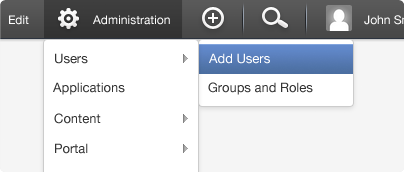
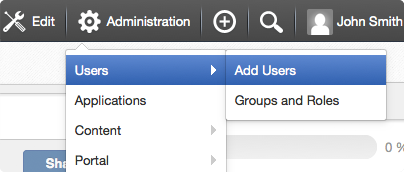
UI-3423  Incorrect UI with simple tab border

diff --git a/platform-ui-skin/src/main/webapp/skin/less/Core.less b/platform-ui-skin/src/main/webapp/skin/less/Core.less
@@ -50,6 +50,21 @@
 	.clearfix();	// Reuse Mixin .clearfix() from mixins.less of bootstrap
 }
 
+// Block level inputs
+.input-block-level{
+	.input-block-level();
+}
+
+/*============== Action With Label================*/
+.uiActionWithLabel {
+	.uiActionWithLabel();
+}
+
+/*============== actionIcon================*/
+.actionContainer{
+	.actionContainer();
+}
+
 a,a:hover,a:focus {
   color: @linkColor;
   text-decoration: none;
@@ -262,10 +277,11 @@ table {
 
 .actionIcon, .actionIconSmall{
 	.actionIcon();
-}
+} 
 
 .actionIconSmall {
-	padding: 0 2px;
+	padding: 0;
+  line-height: @baseLineHeight - 4;
 	[class^="uiIcon"] {
 		vertical-align: middle;
 	}

diff --git a/platform-ui-skin/src/main/webapp/skin/less/component/Buttons/Style.less b/platform-ui-skin/src/main/webapp/skin/less/component/Buttons/Style.less
@@ -3,7 +3,6 @@
 // --------------------------------------------------
 .btn {
 	padding: @paddingDefault;
-	min-width: 50px;
 	border-bottom-color: @btnBorder;
 }
 .btn-primary{
@@ -21,6 +20,7 @@
 	text-align: center;
 	.btn {
 		margin: 0 5px;
+		min-width: 50px;
 	}
 }
 
@@ -104,7 +104,8 @@ h1,h2,h3,h4 {
 
 // Mini
 .btn-mini {
-  .border-radius(@borderRadiusSmall - 1px);
+	padding: @paddingMini;
+	.border-radius(@borderRadiusSmall - 1px);
 }
 
 // Extra (padding-left = padding-right = 15px)

diff --git a/platform-ui-skin/src/main/webapp/skin/less/variables.less b/platform-ui-skin/src/main/webapp/skin/less/variables.less
@@ -81,10 +81,10 @@
 @btnPrimaryBackgroundHighlight:     @primaryColor;
 @btnPrimaryBorder: 					@primaryDarkColor;
 
-@paddingXLarge:         10px 15px;
-@paddingLarge:          3px 10px;
-@paddingDefault:		2px 10px;
-@paddingSmall:          1px 10px;
+@paddingXLarge:         9px 15px;
+@paddingLarge:          4px 10px;
+@paddingDefault:		3px 10px;
+@paddingSmall:          2px 10px;
 @paddingMini:           0 10px;
 
 // Forms

diff --git a/platform-ui-skin/src/main/webapp/skin/less/component/Tabs/Style.less b/platform-ui-skin/src/main/webapp/skin/less/component/Tabs/Style.less
@@ -281,3 +281,20 @@
 .uiFormTabPane {
     padding: 10px;
 }
+
+// Fix dot white for uiTabNormal
+.uiTabNormal {
+	.nav-tabs > li.active:first-child {
+		position: relative;
+	}
+	.nav-tabs > li.active:first-child:before {
+	    background-color: @borderColor;
+	    bottom: 0;
+	    content: "";
+	    display: block;
+	    height: 1px;
+	    left: 0;
+	    position: absolute;
+	    width: 1px;
+	}
+}

diff --git a/platform-ui-skin/src/main/webapp/skin/less/wiki/wiki.less b/platform-ui-skin/src/main/webapp/skin/less/wiki/wiki.less
@@ -378,7 +378,7 @@
 .uiWikiPortlet {
 	.uiSpaceSwitcher_BreadCrumb {
 		float: left;
-		margin-top: -3px;
+		margin-top: -4px;
 		position: relative;
 		z-index: 2;
 	}
@@ -411,7 +411,7 @@
 	.uiWikiMovePageForm, .uiWikiSelectPageForm{
 		.labelForm{
 			font-weight: bold;
-			padding: 2px 0px;
+			padding: 4px 0px;
 		}
 		.uiInputInfo{
 			font-weight: bold;

diff --git a/platform-ui-skin/src/main/webapp/skin/less/calendar/uiHeaderBar/Style.less b/platform-ui-skin/src/main/webapp/skin/less/calendar/uiHeaderBar/Style.less
@@ -2,7 +2,7 @@
 /*============== uiHeaderBar ================*/
 
 .uiHeaderBar{
-	height: 25px;
+	min-height: 27px;
 	table{
 		margin: auto;
 		width: auto;
@@ -17,9 +17,7 @@
 	    width: 216px;
 	    text-align: center;
 	}
-	.uiActionWithLabel {
-		margin-top: -2px;
-	}
+
 	.titleBar {
 		line-height: 24px;
 	}

diff --git a/platform-ui-skin/src/main/webapp/skin/less/calendar/calendar.less b/platform-ui-skin/src/main/webapp/skin/less/calendar/calendar.less
@@ -67,15 +67,10 @@
 
 .selectboxSmall  {
 	.uiSelectbox {
-		width: 100px;
-		background-position: right -2px, 0 0;
-		&:hover, &:focus {
-			background-position: right -28px, 0 0;
-		}
+
 		.selectbox {
 			width: 103px;
-			height: 24px;
-			padding: 3px 6px;
+			margin-bottom: 0;
 		}
 	}	
 } 

diff --git a/platform-ui-skin/src/main/webapp/skin/less/component/ButtonGroups/Style.less b/platform-ui-skin/src/main/webapp/skin/less/component/ButtonGroups/Style.less
@@ -7,7 +7,7 @@
 		display: inline-block;
 	    margin: 0 0 0 5px;
 	    vertical-align: middle;
-	    .size(22px, 2px);
+	    .size(18px, 2px);
 	}
 	> span {
 	 vertical-align: middle;

diff --git a/platform-ui-skin/src/main/webapp/skin/less/wiki/PopupRelated/Style.less b/platform-ui-skin/src/main/webapp/skin/less/wiki/PopupRelated/Style.less
@@ -1,5 +1,5 @@
 .popupContenRelated{
 	border: solid 1px @borderColor;
-	background: @grayLighter;
-	margin: 15px 0;
+	background: @componentBackgroundLight;
+	margin: 15px 0 0;
 }

diff --git a/platform-ui-skin/src/main/webapp/skin/less/component/Form/Style.less b/platform-ui-skin/src/main/webapp/skin/less/component/Form/Style.less
@@ -262,6 +262,7 @@ input[disabled], select[disabled], textarea[disabled] {
 		vertical-align: middle;
 		.selectbox {
 			width: 100px;
+			margin-bottom: 0;
 		}
 	}
 }

diff --git a/platform-ui-skin/src/main/webapp/skin/less/calendar/uiCalendarView/Style.less b/platform-ui-skin/src/main/webapp/skin/less/calendar/uiCalendarView/Style.less
@@ -37,7 +37,7 @@
 		}
 		.uiBox .title {
 			position: relative;
-			padding: 6px 10px;
+			padding: 5px 10px;
 		}
 	}
 
